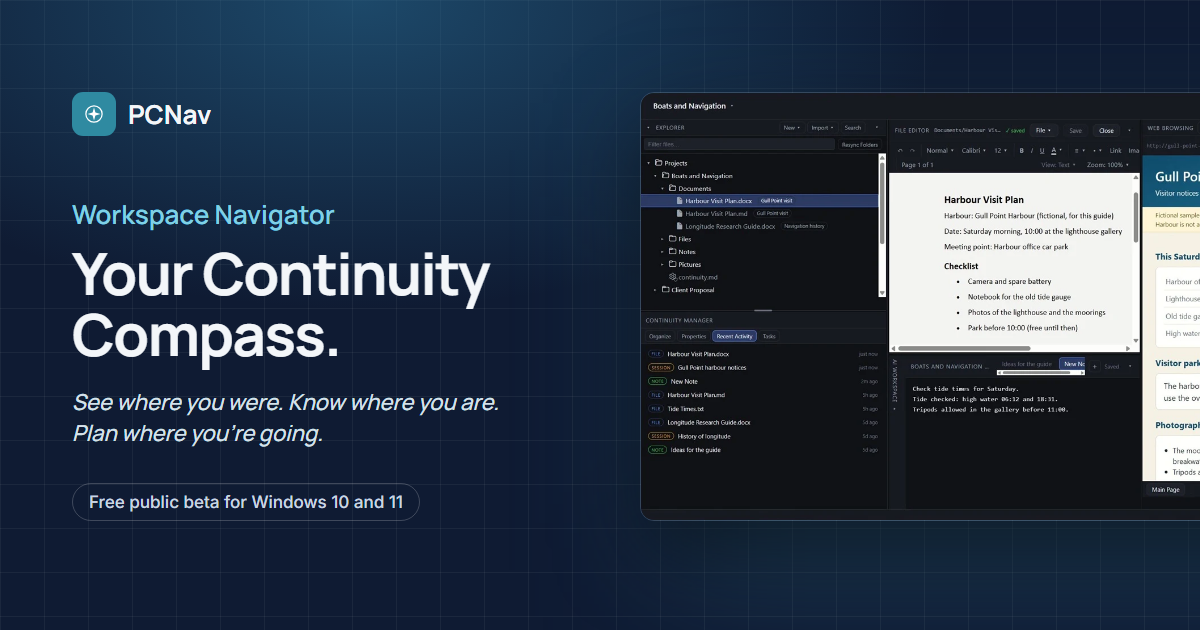
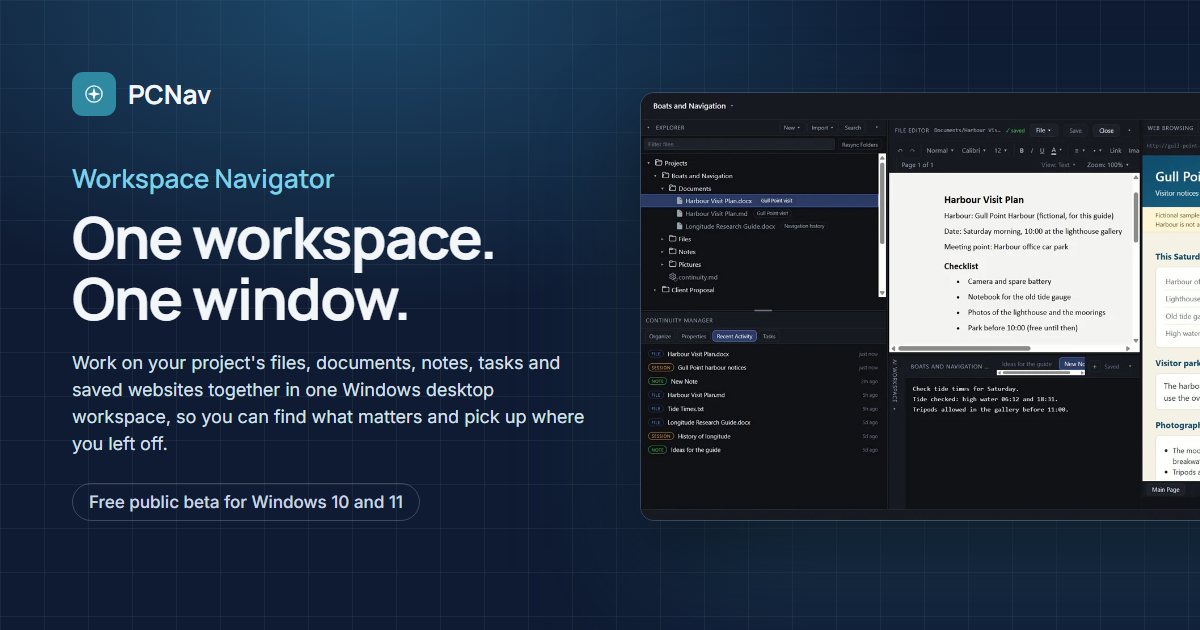
feat(site): "One workspace. One window." replaces the Continuity Compass positioning - prepared locally, NOT FOR DEPLOYMENT
The Human Owner's approved positioning of 2026-11-08, supplied through Lex, applied verbatim to the
current marketing surfaces on top of the published b0f36cf (Concept Video v6 rev1):

- Product name: Workspace Navigator. Headline: "One workspace. One window." Supporting copy:
  "Work on your project's files, documents, notes, tasks and saved websites together in one Windows
  desktop workspace, so you can find what matters and pick up where you left off."
- Homepage hero (headline set one sentence per line), browser title, description, og:title and
  og:description; the Continuity Manager section's eyebrow and card labels no longer use the old
  three-part line (the cards keep their numbered titles and copy).
- Workspace Navigator page hero and titles; About's product link; the site-wide og:image alt text.
- public/og-image.png regenerated from the same template with the new wording.

Retained as historical or quoted: both video transcripts quote the videos' own closing captions; the
Account catalogue summary (not rendered in the public scaffolding) is unchanged. Videos, posters,
transcripts, release pages, OS Map pages, Account, env, build config and dependencies are unchanged.

Changed region(s): [[0.0617, 0.3317, 0.4933, 0.7238], [0.0617, 0.0905, 0.185, 0.2413], [0.0617, 0.2714, 0.2775, 0.3016]]

diff --git a/src/routes/index.tsx b/src/routes/index.tsx
@@ -32,22 +32,23 @@ import {
 import { OS_MAP_BETA, WN_BETA, WN_COMMERCIAL_NOTE } from "@/lib/releases";
 
 // Homepage: Workspace Navigator first (Owner decision D1, 2026-11-08), with the approved positioning
-// (D2): "Workspace Navigator / Your Continuity Compass. / See where you were. Know where you are.
-// Plan where you're going." Product statements restate the Owner-approved Workspace Navigator page,
+// (Owner, 2026-11-08, superseding D2's "Your Continuity Compass"): "Workspace Navigator / One workspace. One window."
+// and its supporting copy, verbatim. Product statements restate the Owner-approved Workspace Navigator page,
 // the 0.5.1 Beta release page and the published Concept Video; no capability is added here.
 export const Route = createFileRoute("/")({
   head: () => ({
     meta: [
-      { title: "Workspace Navigator — Your Continuity Compass | PCNav" },
+      { title: "Workspace Navigator — One workspace. One window. | PCNav" },
       {
         name: "description",
         content:
-          "Keep your project's files, documents, notes, tasks and saved websites together in one Windows desktop workspace. Workspace Navigator 0.5.1 is a free public beta for Windows 10 and 11.",
+          "Work on your project's files, documents, notes, tasks and saved websites together in one Windows desktop workspace, so you can find what matters and pick up where you left off. Workspace Navigator 0.5.1 is a free public beta for Windows 10 and 11.",
       },
-      { property: "og:title", content: "Workspace Navigator — Your Continuity Compass" },
+      { property: "og:title", content: "Workspace Navigator — One workspace. One window." },
       {
         property: "og:description",
-        content: "See where you were. Know where you are. Plan where you're going.",
+        content:
+          "Work on your project's files, documents, notes, tasks and saved websites together in one Windows desktop workspace, so you can find what matters and pick up where you left off.",
       },
     ],
   }),
@@ -61,23 +62,20 @@ const SCATTERED: { icon: LucideIcon; label: string }[] = [
   { icon: FolderTree, label: "Files" },
 ];
 
-// The three bearings of the Continuity Compass, each shown with the part of the application that
-// provides it, as in the Concept Video's "Coming Back" scene.
-const BEARINGS: { kicker: string; title: string; text: string; shot: Shot }[] = [
+// The Continuity Manager's three tabs that keep a Project's context, each shown with its panel, as in
+// the Concept Video's "Coming Back" scene.
+const BEARINGS: { title: string; text: string; shot: Shot }[] = [
   {
-    kicker: "See where you were",
     title: "Recent Activity",
     text: "Recent Activity lists the files, notes and websites you've used in the Project, most recent first, so you can pick up where you left off.",
     shot: SHOTS.recent,
   },
   {
-    kicker: "Know where you are",
     title: "Properties",
     text: "Each Project can carry its Purpose and Project Notes, so you're reminded what the work is for whenever you return to it.",
     shot: SHOTS.properties,
   },
   {
-    kicker: "Plan where you're going",
     title: "Tasks",
     text: "Keep a list of tasks inside the Project. Tick them off as you finish them and reopen them if you need to.",
     shot: SHOTS.tasks,
@@ -155,15 +153,13 @@ function HomePage() {
                 Workspace Navigator
               </span>
               <span className="mt-2 block text-4xl font-semibold leading-[1.08] sm:text-6xl">
-                Your Continuity Compass.
+                <span className="block">One workspace.</span>{" "}
+                <span className="block">One window.</span>
               </span>
             </h1>
-            <p className="mt-5 font-display text-lg font-medium italic text-hero-foreground/90 sm:text-xl">
-              See where you were. Know where you are. Plan where you're going.
-            </p>
-            <p className="mx-auto mt-5 max-w-2xl text-base leading-relaxed text-hero-muted sm:text-lg">
-              Keep your project's files, documents, notes, tasks and saved websites together in one
-              Windows desktop workspace, so you can find what matters and pick up where you left
+            <p className="mx-auto mt-6 max-w-2xl text-base leading-relaxed text-hero-muted sm:text-lg">
+              Work on your project's files, documents, notes, tasks and saved websites together in
+              one Windows desktop workspace, so you can find what matters and pick up where you left
               off.
             </p>
             <div className="mt-8 flex flex-col items-center justify-center gap-3 sm:flex-row">
@@ -260,7 +256,7 @@ function HomePage() {
         <div className="mx-auto max-w-6xl px-4 py-14 sm:px-6 sm:py-24">
           <div className="max-w-2xl">
             <p className="text-xs font-semibold uppercase tracking-[0.18em] text-primary">
-              Your Continuity Compass
+              Continuity Manager
             </p>
             <h2 className="mt-3 text-3xl font-semibold tracking-tight sm:text-4xl">
               Come back to your work knowing where you were.
@@ -276,16 +272,15 @@ function HomePage() {
                 className="flex flex-col overflow-hidden rounded-2xl border border-border/70 bg-card shadow-sm"
               >
                 <div className="p-6 pb-5">
-                  <p className="flex items-center gap-2 text-sm font-semibold text-primary">
+                  <h3 className="flex items-center gap-3 text-xl font-semibold">
                     <span
-                      className="flex h-6 w-6 items-center justify-center rounded-full bg-primary text-[11px] text-primary-foreground"
+                      className="flex h-7 w-7 items-center justify-center rounded-full bg-primary text-xs text-primary-foreground"
                       aria-hidden="true"
                     >
                       {i + 1}
                     </span>
-                    {b.kicker}
-                  </p>
-                  <h3 className="mt-3 text-xl font-semibold">{b.title}</h3>
+                    {b.title}
+                  </h3>
                   <p className="mt-2 text-sm leading-relaxed text-muted-foreground">{b.text}</p>
                 </div>
                 <div className="mt-auto px-4 pb-4">

diff --git a/src/routes/workspace-navigator/index.tsx b/src/routes/workspace-navigator/index.tsx
@@ -25,13 +25,13 @@ import { WN_BETA, WN_COMMERCIAL_NOTE } from "@/lib/releases";
 export const Route = createFileRoute("/workspace-navigator/")({
   head: () => ({
     meta: [
-      { title: "Workspace Navigator — Your Continuity Compass | PCNav" },
+      { title: "Workspace Navigator — One workspace. One window. | PCNav" },
       {
         name: "description",
         content:
           "A Windows desktop application that keeps a project's files, notes, tags, tasks and saved web destinations together in one place. A free public beta is available for Windows 10 and 11.",
       },
-      { property: "og:title", content: "Workspace Navigator — Your Continuity Compass" },
+      { property: "og:title", content: "Workspace Navigator — One workspace. One window." },
       {
         property: "og:description",
         content:
@@ -105,15 +105,11 @@ function WorkspaceNavigatorPage() {
             Workspace Navigator
           </h1>
           <p className="mt-3 font-display text-2xl font-semibold text-hero-foreground/95 sm:text-3xl">
-            Your Continuity Compass.
-          </p>
-          <p className="mt-3 font-display text-lg italic text-hero-foreground/85">
-            See where you were. Know where you are. Plan where you're going.
+            One workspace. One window.
           </p>
           <p className="mt-6 max-w-2xl text-base leading-relaxed text-hero-muted">
-            A Windows desktop application that keeps a project's files, notes, tags, tasks and saved
-            web destinations together in one place, so you can see where things stand and pick up
-            where you left off.
+            Work on your project's files, documents, notes, tasks and saved websites together in one
+            Windows desktop workspace, so you can find what matters and pick up where you left off.
           </p>
           <div className="mt-8 flex flex-col gap-3 sm:flex-row sm:flex-wrap">
             <Button

diff --git a/src/routes/__root.tsx b/src/routes/__root.tsx
@@ -101,7 +101,7 @@ export const Route = createRootRouteWithContext<{ queryClient: QueryClient }>()(
       { property: "og:image", content: "https://www.pcnav.net/og-image.png" },
       { property: "og:image:width", content: "1200" },
       { property: "og:image:height", content: "630" },
-      { property: "og:image:alt", content: "Workspace Navigator — Your Continuity Compass. A sample Project open in the application." },
+      { property: "og:image:alt", content: "Workspace Navigator — One workspace. One window. A sample Project open in the application." },
       { name: "twitter:card", content: "summary_large_image" },
     ],
     links: [

diff --git a/src/routes/about.tsx b/src/routes/about.tsx
@@ -128,7 +128,7 @@ function AboutPage() {
               icon={Compass}
               name="Workspace Navigator"
               status={WN_BETA.label}
-              text="Your Continuity Compass for projects, documents and ongoing work."
+              text="One workspace. One window."
             />
             <ProductLink
               to="/os-map"
